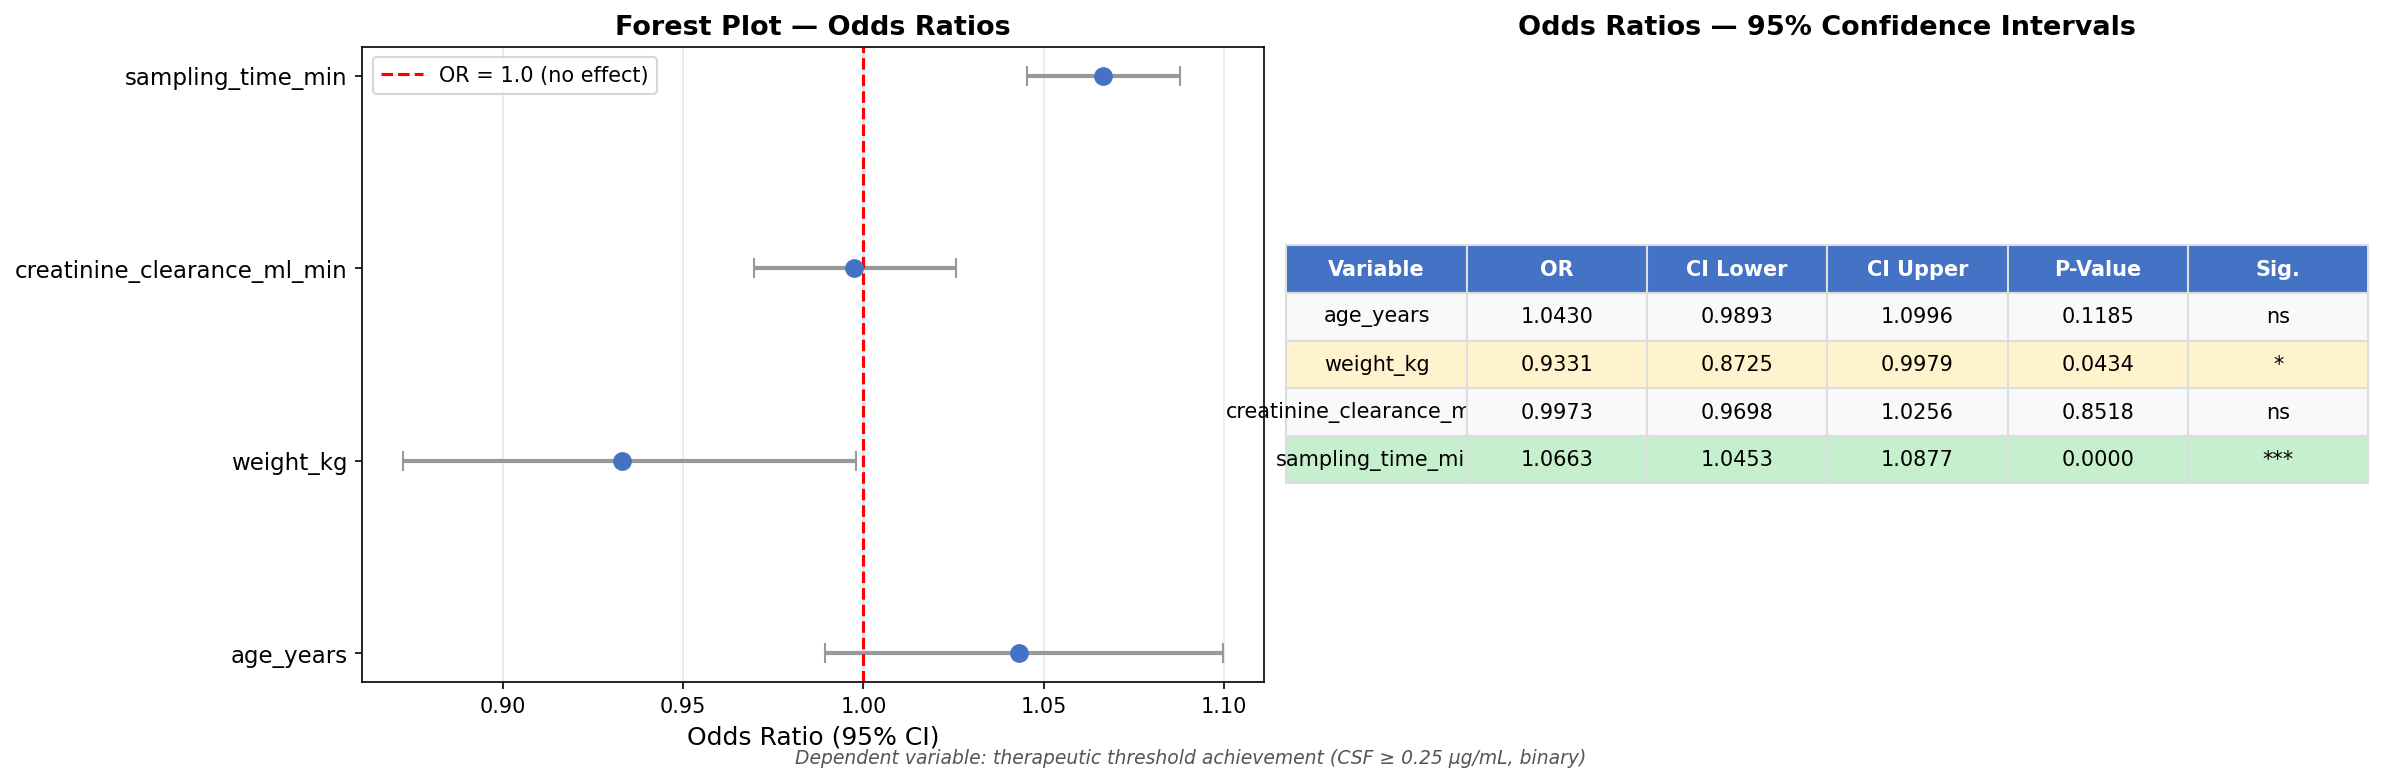
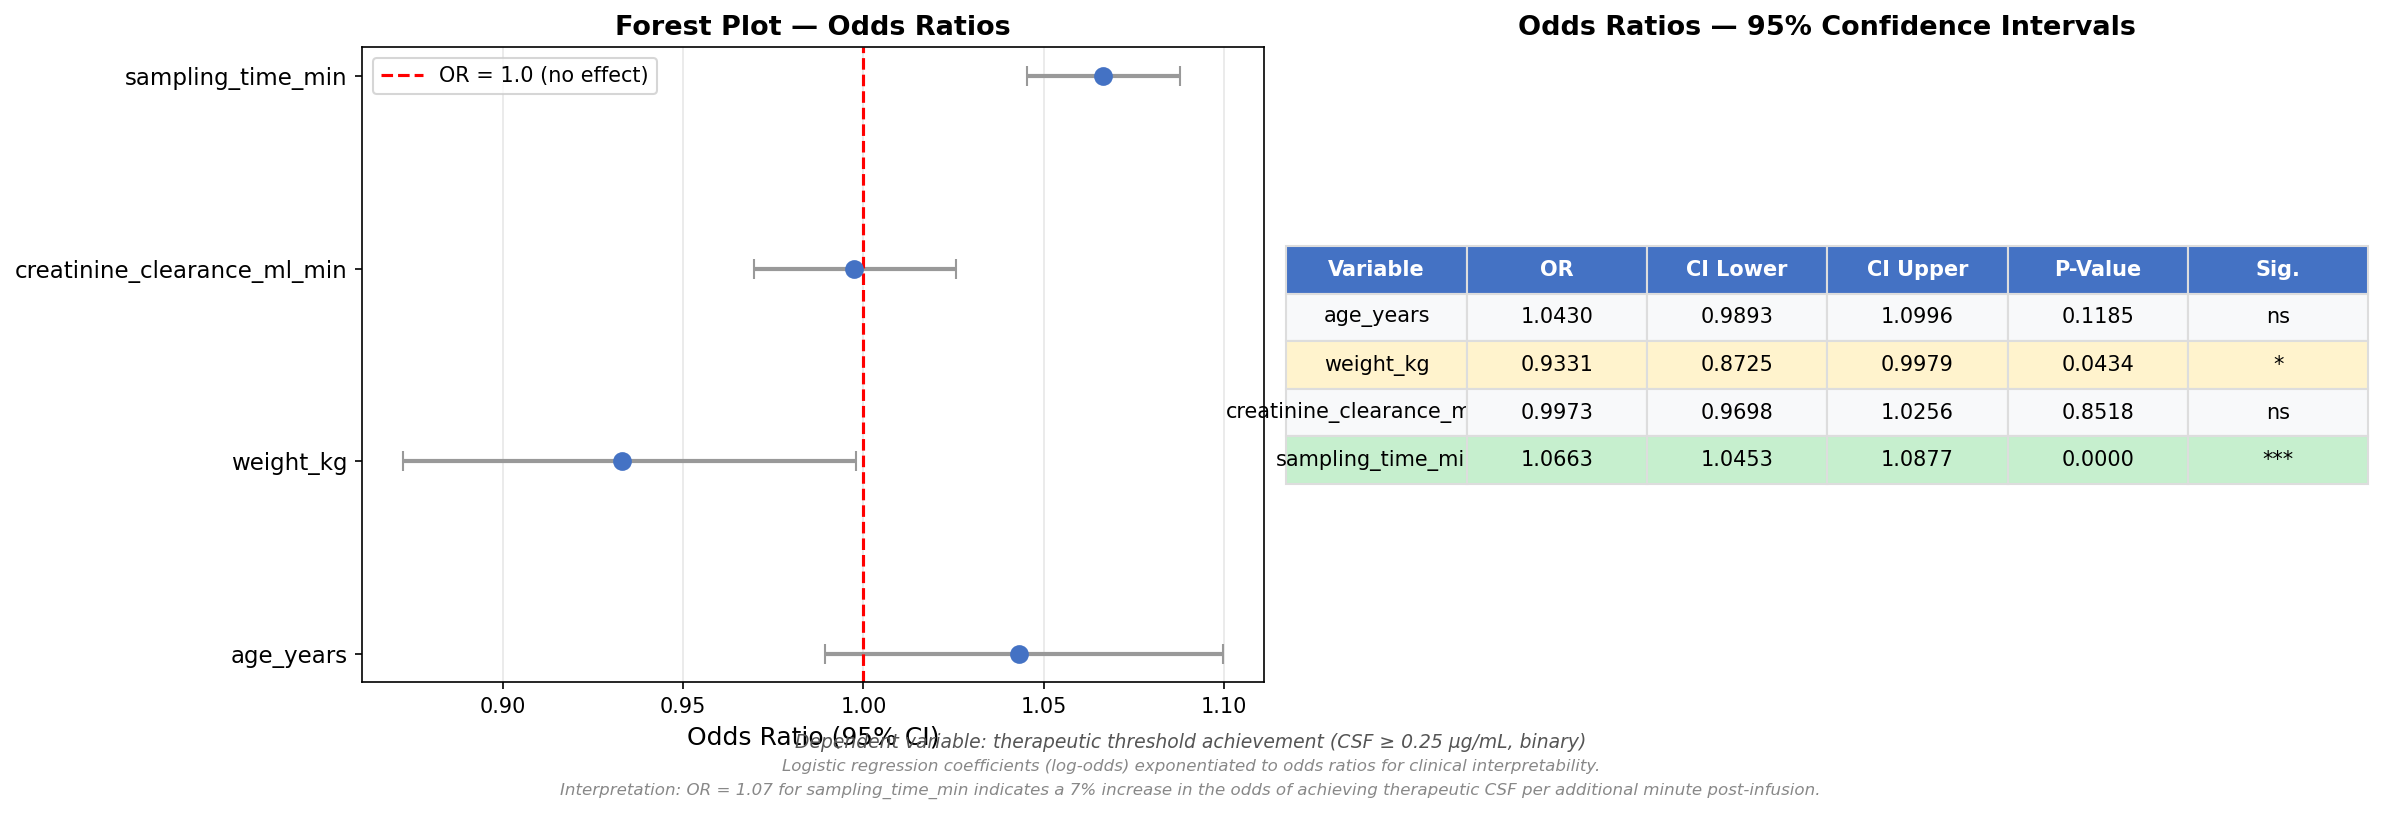
Add interpretive footnotes to odds ratios figure

diff --git a/analysis.py b/analysis.py
@@ -242,9 +242,15 @@ for (row, col), cell in table5.get_celld().items():
 ax5b.set_title("Odds Ratios — 95% Confidence Intervals", fontsize=13, fontweight="bold")
 
 plt.tight_layout()
-fig5.text(0.5, 0.01,
+fig5.text(0.5, 0.03,
           "Dependent variable: therapeutic threshold achievement (CSF ≥ 0.25 µg/mL, binary)",
           ha="center", fontsize=9, fontstyle="italic", color="#555555")
+fig5.text(0.5, 0.00,
+          "Logistic regression coefficients (log-odds) exponentiated to odds ratios for clinical interpretability.",
+          ha="center", fontsize=8, fontstyle="italic", color="#888888")
+fig5.text(0.5, -0.03,
+          "Interpretation: OR = 1.07 for sampling_time_min indicates a 7% increase in the odds of achieving therapeutic CSF per additional minute post-infusion.",
+          ha="center", fontsize=8, fontstyle="italic", color="#888888")
 plt.savefig("figure4_odds_ratios.png", dpi=150, bbox_inches="tight")
 plt.close()
 print("Saved: figure4_odds_ratios.png")
